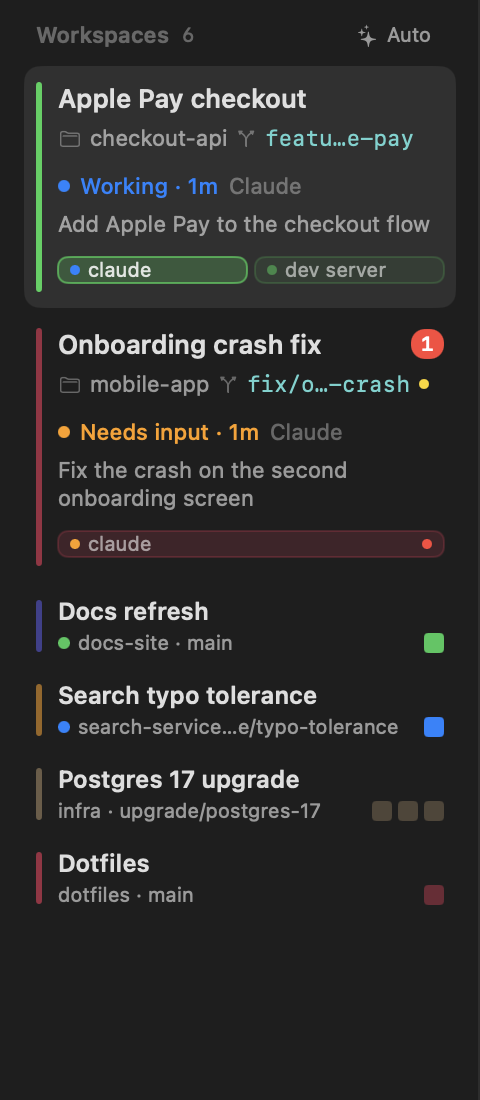
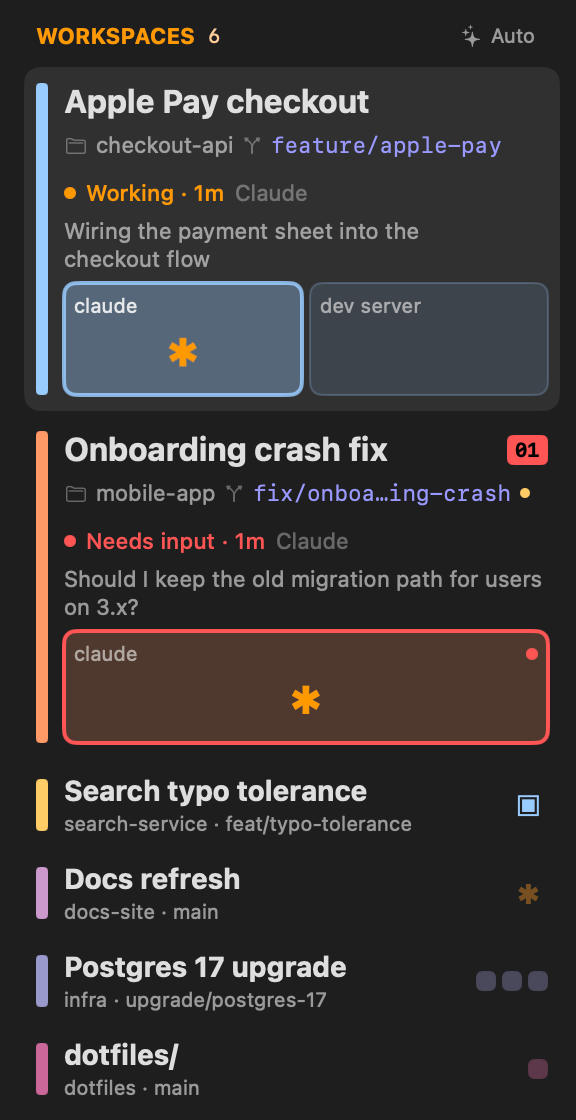
New README screenshots, and restore plain terminals on compact rows
docs/screenshots.sh renders the README screenshots from sample workspaces
in docs/demo-data.js: it builds a copy of lcars.js reading that data,
selects it briefly, captures it between spin steps, and selects lcars
again.

The screenshots showed that compact rows had stopped drawing plain
terminals: their tile was an empty Text in a frame, which collapsed. The
tile is now sized by its shape.

diff --git a/docs/demo-data.js b/docs/demo-data.js
@@ -1,0 +1,64 @@
+// Sample workspaces for the README screenshots (docs/screenshots.sh).
+// The script prepends this to a copy of lcars.js and points that copy's
+// data.workspaces() reads at demoWorkspaces(), so everything on screen is
+// drawn by the real sidebar code. Times are relative to the live clock.
+
+const DEMO_SELECTED = "__SELECTED__";
+
+function demoWorkspaces() {
+  const now = data.clock()?.epoch ?? 0;
+  const ago = (s) => now - s;
+  const tab = (id, title, extra) => ({ id, title, surfaceId: id, focused: false, pinned: false, hasUnread: false, ...extra });
+  const agent = (id, kind, name, status, panelId, since, extra) => ({
+    id, kind, name, status, panelId, surfaceId: panelId,
+    sinceEpoch: ago(since), lastActivityAt: ago(status === "idle" ? since : 4), ...extra,
+  });
+  const list = [
+    {
+      id: "checkout", title: "Apple Pay checkout", directory: "~/src/checkout-api",
+      branch: "feature/apple-pay", color: "#99CCFF", unread: 0,
+      latestMessage: "Wiring the payment sheet into the checkout flow",
+      tabs: [tab("checkout-1", "claude", { focused: true }), tab("checkout-2", "dev server")],
+      agents: [agent("c1", "claude", "Claude", "working", "checkout-1", 72)],
+    },
+    {
+      id: "onboarding", title: "Onboarding crash fix", directory: "~/src/mobile-app",
+      branch: "fix/onboarding-crash", dirty: true, color: "#FF9966", unread: 1,
+      latestMessage: "Should I keep the old migration path for users on 3.x?",
+      tabs: [tab("onboarding-1", "claude", { focused: true, hasUnread: true })],
+      agents: [agent("c2", "claude", "Claude", "needs_input", "onboarding-1", 64)],
+    },
+    {
+      id: "search", title: "Search typo tolerance", directory: "~/src/search-service",
+      branch: "feat/typo-tolerance", color: "#FFCC66", unread: 0,
+      latestMessage: "Benchmarks are in: p95 went from 41ms to 44ms",
+      description: 'lcars-tabs {"ses_fuzzy":"Fuzzy matching","ses_bench":"Benchmark harness"}',
+      tabs: [tab("search-1", "OC | Fuzzy matching", { focused: true })],
+      agents: [
+        agent("ses_fuzzy", "opencode", "OpenCode", "working", "search-1", 32),
+        agent("ses_bench", "opencode", "OpenCode", "idle", "search-1", 95),
+      ],
+    },
+    {
+      id: "docs", title: "Docs refresh", directory: "~/src/docs-site",
+      branch: "main", color: "#CC99CC", unread: 0,
+      tabs: [tab("docs-1", "claude", { focused: true })],
+      agents: [agent("c3", "claude", "Claude", "idle", "docs-1", 300)],
+    },
+    {
+      id: "postgres", title: "Postgres 17 upgrade", directory: "~/src/infra",
+      branch: "upgrade/postgres-17", color: "#9999CC", unread: 0,
+      tabs: [tab("pg-1", "psql", { focused: true }), tab("pg-2", "terraform"), tab("pg-3", "logs")],
+    },
+    {
+      id: "dotfiles", title: "~/dotfiles", directory: "~/dotfiles",
+      branch: "main", color: "#CC6699", unread: 0,
+      tabs: [tab("dot-1", "~/dotfiles", { focused: true })],
+    },
+  ];
+  return list.map((w, index) => ({
+    pinned: false, ports: [], portCount: 0, status: "todo", tabCount: w.tabs.length,
+    ...w, index, selected: w.id === DEMO_SELECTED,
+  }));
+}
+

diff --git a/lcars.js b/lcars.js
@@ -452,18 +452,21 @@ function miniTile(w, t) {
   const live = () => !!t()?.focused && !!w()?.selected;
   const needsInput = () => agent()?.status === "needs_input";
   const side = () => (agent() ? 20 : 10);
-  return HStack({ spacing: 0 }, [
+  // The shape gives the tile its size; an empty Text alone collapses to
+  // nothing, which hid plain terminals' squares.
+  return ZStack([
+    RoundedRectangle({ cornerRadius: 3 })
+      .fill(() =>
+        needsInput() ? LCARS.red
+          : agent() ? "clear"
+          : accent(w()) + (live() ? "B3" : "59"))
+      .frame(() => ({ width: side(), height: side() })),
     Text(() => (agent() ? agentMark(agent()).glyph : ""))
       .font(14).weight("bold")
       .color(() => (needsInput() ? "black" : agent() ? agentMark(agent()).color : "clear"))
       .opacity(() => (agent()?.status === "idle" ? 0.4 : 1))
       .rotation(spin(agent)),
   ])
-    .frame(() => ({ width: side(), height: side() }))
-    .background(() =>
-      needsInput() ? LCARS.red
-        : agent() ? "clear"
-        : accent(w()) + (live() ? "B3" : "59"))
     .borderColor(() =>
       t()?.hasUnread ? LCARS.red : live() && !agent() ? "#FFFFFFCC" : "clear")
     .borderWidth(1)
